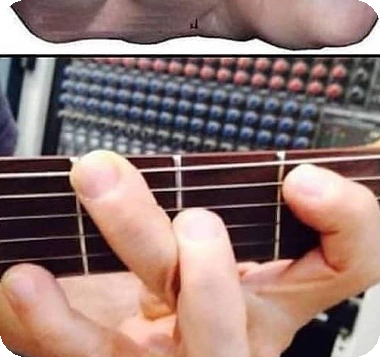
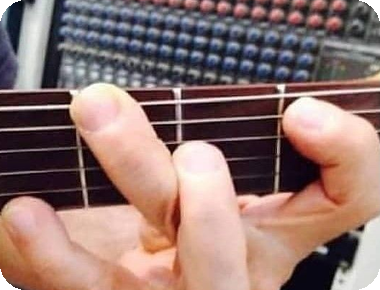
Topics stickers: re-rounded crops, hand1 replaced, bubbles below header stickers and auto-hide sooner
Claude-Session: https://claude.ai/code/session_01AW8gwoCEFVC6XRxCCjRru6

diff --git a/src/pages/Topics.tsx b/src/pages/Topics.tsx
@@ -76,13 +76,12 @@ export function Topics() {
   return (
     <>
       {/* stickers live in the empty space: right of the heading, and in the side margins on wide screens */}
-      <Sticker src={`${B}st-hand1.png`} width={118} rotate={8} style={{ right: 500, top: 22 }} lines={pep} />
-      <Sticker src={`${B}st-ritard.png`} width={160} rotate={-6} style={{ right: 320, top: 50 }} delay={0.15} lines={pep} />
+      <Sticker src={`${B}st-hand3.png`} width={140} rotate={8} bubble="below" style={{ right: 500, top: 22 }} lines={pep} />
+      <Sticker src={`${B}st-ritard.png`} width={160} rotate={-6} bubble="below" style={{ right: 320, top: 50 }} delay={0.15} lines={pep} />
       <Sticker src={`${B}st-short.png`} width={128} rotate={5} className="margin-only" style={{ left: -150, top: 420 }} delay={0.3} lines={pep} />
-      <Sticker src={`${B}st-hand3.png`} width={128} rotate={-4} className="margin-only" style={{ right: -150, top: 420 }} delay={0.4} lines={pep} />
+      <Sticker src={`${B}st-hand4.png`} width={128} rotate={-4} className="margin-only" style={{ right: -150, top: 420 }} delay={0.4} lines={pep} />
       <Sticker src={`${B}st-hand2.png`} width={128} rotate={6} className="margin-only" style={{ left: -150, top: 900 }} delay={0.5} lines={pep} />
       <Sticker src={`${B}st-veryhard.png`} width={128} rotate={-5} className="margin-only" style={{ right: -150, top: 900 }} delay={0.6} lines={pep} />
-      <Sticker src={`${B}st-hand4.png`} width={128} rotate={4} className="margin-only" style={{ left: -150, top: 1380 }} delay={0.7} lines={pep} />
       <div className="page-head">
         <div>
           <h1 className="display">{t('topics.title')}</h1>

diff --git a/src/components/fun.tsx b/src/components/fun.tsx
@@ -305,6 +305,7 @@ export function Sticker({
   delay = 0,
   className,
   lines,
+  bubble = 'above',
 }: {
   src: string
   width: number
@@ -314,6 +315,8 @@ export function Sticker({
   className?: string
   /** Optional lines to pop up in a speech bubble on tap. */
   lines?: string[]
+  /** Where the bubble goes; "below" for stickers near the top of the page. */
+  bubble?: 'above' | 'below'
 }) {
   const [kick, setKick] = useState(0)
   const [line, setLine] = useState<{ id: number; text: string } | null>(null)
@@ -323,7 +326,7 @@ export function Sticker({
   const bx = side === 'center' ? '-50%' : '0%'
   useEffect(() => {
     if (!line) return
-    const t = setTimeout(() => setLine(null), 2800)
+    const t = setTimeout(() => setLine(null), 2200)
     return () => clearTimeout(t)
   }, [line])
   function tap() {
@@ -369,10 +372,10 @@ export function Sticker({
         {line && (
           <motion.span
             key={line.id}
-            className={`bubble ${side}`}
-            initial={{ opacity: 0, y: 10, scale: 0.6, rotate: -6, x: bx }}
+            className={`bubble ${side} ${bubble}`}
+            initial={{ opacity: 0, y: bubble === 'below' ? -10 : 10, scale: 0.6, rotate: -6, x: bx }}
             animate={{ opacity: 1, y: 0, scale: 1, rotate: 0, x: bx }}
-            exit={{ opacity: 0, y: -8, scale: 0.8, x: bx, transition: { duration: 0.18 } }}
+            exit={{ opacity: 0, y: bubble === 'below' ? 8 : -8, scale: 0.8, x: bx, transition: { duration: 0.18 } }}
             transition={{ type: 'spring', stiffness: 500, damping: 18 }}
           >
             {line.text}

diff --git a/src/index.css b/src/index.css
@@ -1044,6 +1044,18 @@ button {
   right: 0;
   transform-origin: 90% 100%;
 }
+.bubble.below {
+  bottom: auto;
+  top: calc(100% + 12px);
+  transform-origin: 50% 0%;
+}
+.bubble.below::after {
+  bottom: auto;
+  top: -7px;
+  border: 0;
+  border-left: 1.5px solid var(--ink);
+  border-top: 1.5px solid var(--ink);
+}
 .bubble.left::after {
   left: 22px;
 }
